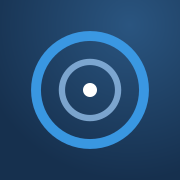
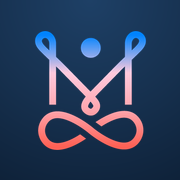
Put our own mark on the installed app
The three icons a phone actually keeps — the launcher icon, Android's maskable
one and the iOS home screen one — were still the placeholder that shipped with
the project: concentric blue rings, nobody's logo. The browser tab had the real
mark on it, so the app was branded in the one place people glance at and
unbranded in the place it sits every day.

All three now come from the same file the favicon does.

Painted on the app's own navy rather than left transparent. The mark is pale
pink and light blue; on a white home screen a transparent version would very
nearly vanish, and iOS does not honour transparency anyway — it composites onto
whatever it likes.

The maskable one is smaller inside its square, at 52% rather than 66%. Android
crops to a circle, a squircle or a teardrop depending on the launcher, and the
safe zone is only the middle 80%. Checked by cropping it to that circle: the
arms of the M clear it with room to spare.

diff --git a/docs/counsel-brief.md b/docs/counsel-brief.md
@@ -1,0 +1,79 @@
+# Request for counsel — marketplace terms review
+
+**To:** [Firm / attorney name]
+**From:** [Your name], Minimum Stress Consulting Services LLC
+**Date:** [Date]
+**Re:** Drafting protective clauses and reviewing existing terms for a two-sided marketplace launching in California
+
+---
+
+## 1. What we are
+
+Minimum Stress Consulting Services LLC, a California LLC, operates **Minimum Stress** (minimumstress.app), a marketplace where wellness practitioners rent private rooms by the hour from the people who own them.
+
+- **Hosts** are studio, treatment-room and office owners with hours they are not using.
+- **Practitioners** are yoga teachers, coaches, therapists and similar independent professionals who see their own clients.
+- Practitioners bring their own clients to the session. Those clients are not our users and have no account with us.
+
+We are launching in the San Francisco Bay Area. Live today with a small number of listings.
+
+## 2. How money moves
+
+- The host sets an hourly rate and receives **100%** of it.
+- We add a **20% service fee** on top, charged to the practitioner. The advertised price is all-in — the fee is included in every price shown, in line with SB 478.
+- Payment is taken at the time of booking through **Stripe** (Stripe Connect). We never hold card details.
+- Funds are held and released to the host approximately **two business days after the session**.
+- **Cancellation:** 24 hours or more before the session, the practitioner is refunded everything except the card network's processing fee (roughly $1.87 on a $54 booking), which the network retains regardless. Inside 24 hours, the full amount is captured. If the host cancels, the practitioner is refunded in full including that fee.
+- A paid subscription ("Pro", $9.90/month) removes booking limits and returns the processing fee on early cancellation.
+- A saved card may be charged again only for damage, extra cleaning or overrun, and only after a dispute process. This is disclosed at checkout where Stripe records the card-on-file mandate.
+
+## 3. What we do and do not do
+
+**We do:**
+- Take payment, hold it, and pay the host.
+- Review a host's proof that they may sublicense their space, and their insurance certificate if provided.
+- Release the room's entry instructions and access code to the practitioner shortly before the session.
+- Operate a refund and damage-claim process in which a member of staff reads both accounts and decides an outcome.
+- Record safety reports and escalate them to a person.
+
+**We do not:**
+- Own, lease or control any of the spaces.
+- Provide any medical, therapeutic or health service.
+- Verify a practitioner's qualifications, training or fitness to practise.
+- Take part in the session itself, or in the practitioner's relationship with their own client.
+
+## 4. What we already have
+
+Our terms and privacy policy are published at minimumstress.app/terms and /privacy and are shown in the app before anyone can use it. Both sides must accept before doing anything, and acceptance is recorded with a version number and a server-set timestamp. Hosts additionally acknowledge, per listing, that they hold the legal right to sublicense that space for paid sessions.
+
+The existing text covers: the marketplace relationship, independent-contractor status, the off-platform booking prohibition, health and wellness disclaimers, cancellation and refund policy, reviews and safety, and a privacy policy naming every third-party processor.
+
+## 5. What we are asking you to draft
+
+Our current terms contain **none** of the following. These are what we would like drafted:
+
+1. **Binding arbitration clause and class action waiver** — enforceable in California, with whatever opt-out and cost-allocation provisions are required for it to survive an unconscionability challenge.
+2. **Limitation of liability** — a cap, drafted with California Civil Code §1668 in mind. We understand we cannot disclaim liability for our own fraud, wilful injury or violation of law, and we are not asking you to try.
+3. **Indemnification** — users indemnifying us for claims arising from their own conduct, their own clients, and their own compliance obligations.
+4. **Governing law and venue.**
+5. **Warranty disclaimer** — the platform provided "as is", with the health and wellness disclaimers we already have folded in properly.
+
+## 6. What we are asking you to review
+
+1. **Worker classification.** Our terms deliberately describe a practitioner as *licensing a room by the hour* and as our customer, never as engaged, hired, or providing services to us. We drafted this with the AB5 ABC test in mind. Please tell us whether the language holds and where it does not.
+2. **Retention of the processing fee on cancellation.** We retain only the actual amount the card network keeps, we add nothing to it, and it is disclosed before payment. Please confirm this is defensible, and tell us how it must be described.
+3. **Privacy policy against CCPA/CPRA.** It names every processor, states retention, and lists the rights. Please tell us what is missing and whether we meet the thresholds that trigger the fuller obligations.
+4. **Anything a marketplace of this shape ordinarily needs that we have not thought of.** Our particular concern is physical risk: a practitioner and their client are alone in a room belonging to a third party, arranged through us.
+
+## 7. What we would like from you
+
+- A quote and estimated turnaround for the drafting in section 5.
+- A separate quote for the review in section 6, if you would rather scope them apart.
+- Your view on whether anything here should stop us taking bookings from members of the public before it is in place.
+
+We have working drafts of some clauses that we are happy to send if reviewing a draft is cheaper than drafting from scratch. We would rather you tell us they are wrong than not see them.
+
+---
+
+**Contact:** [your email] · [your phone]
+**The app:** https://minimumstress.app · terms at /terms · privacy at /privacy
